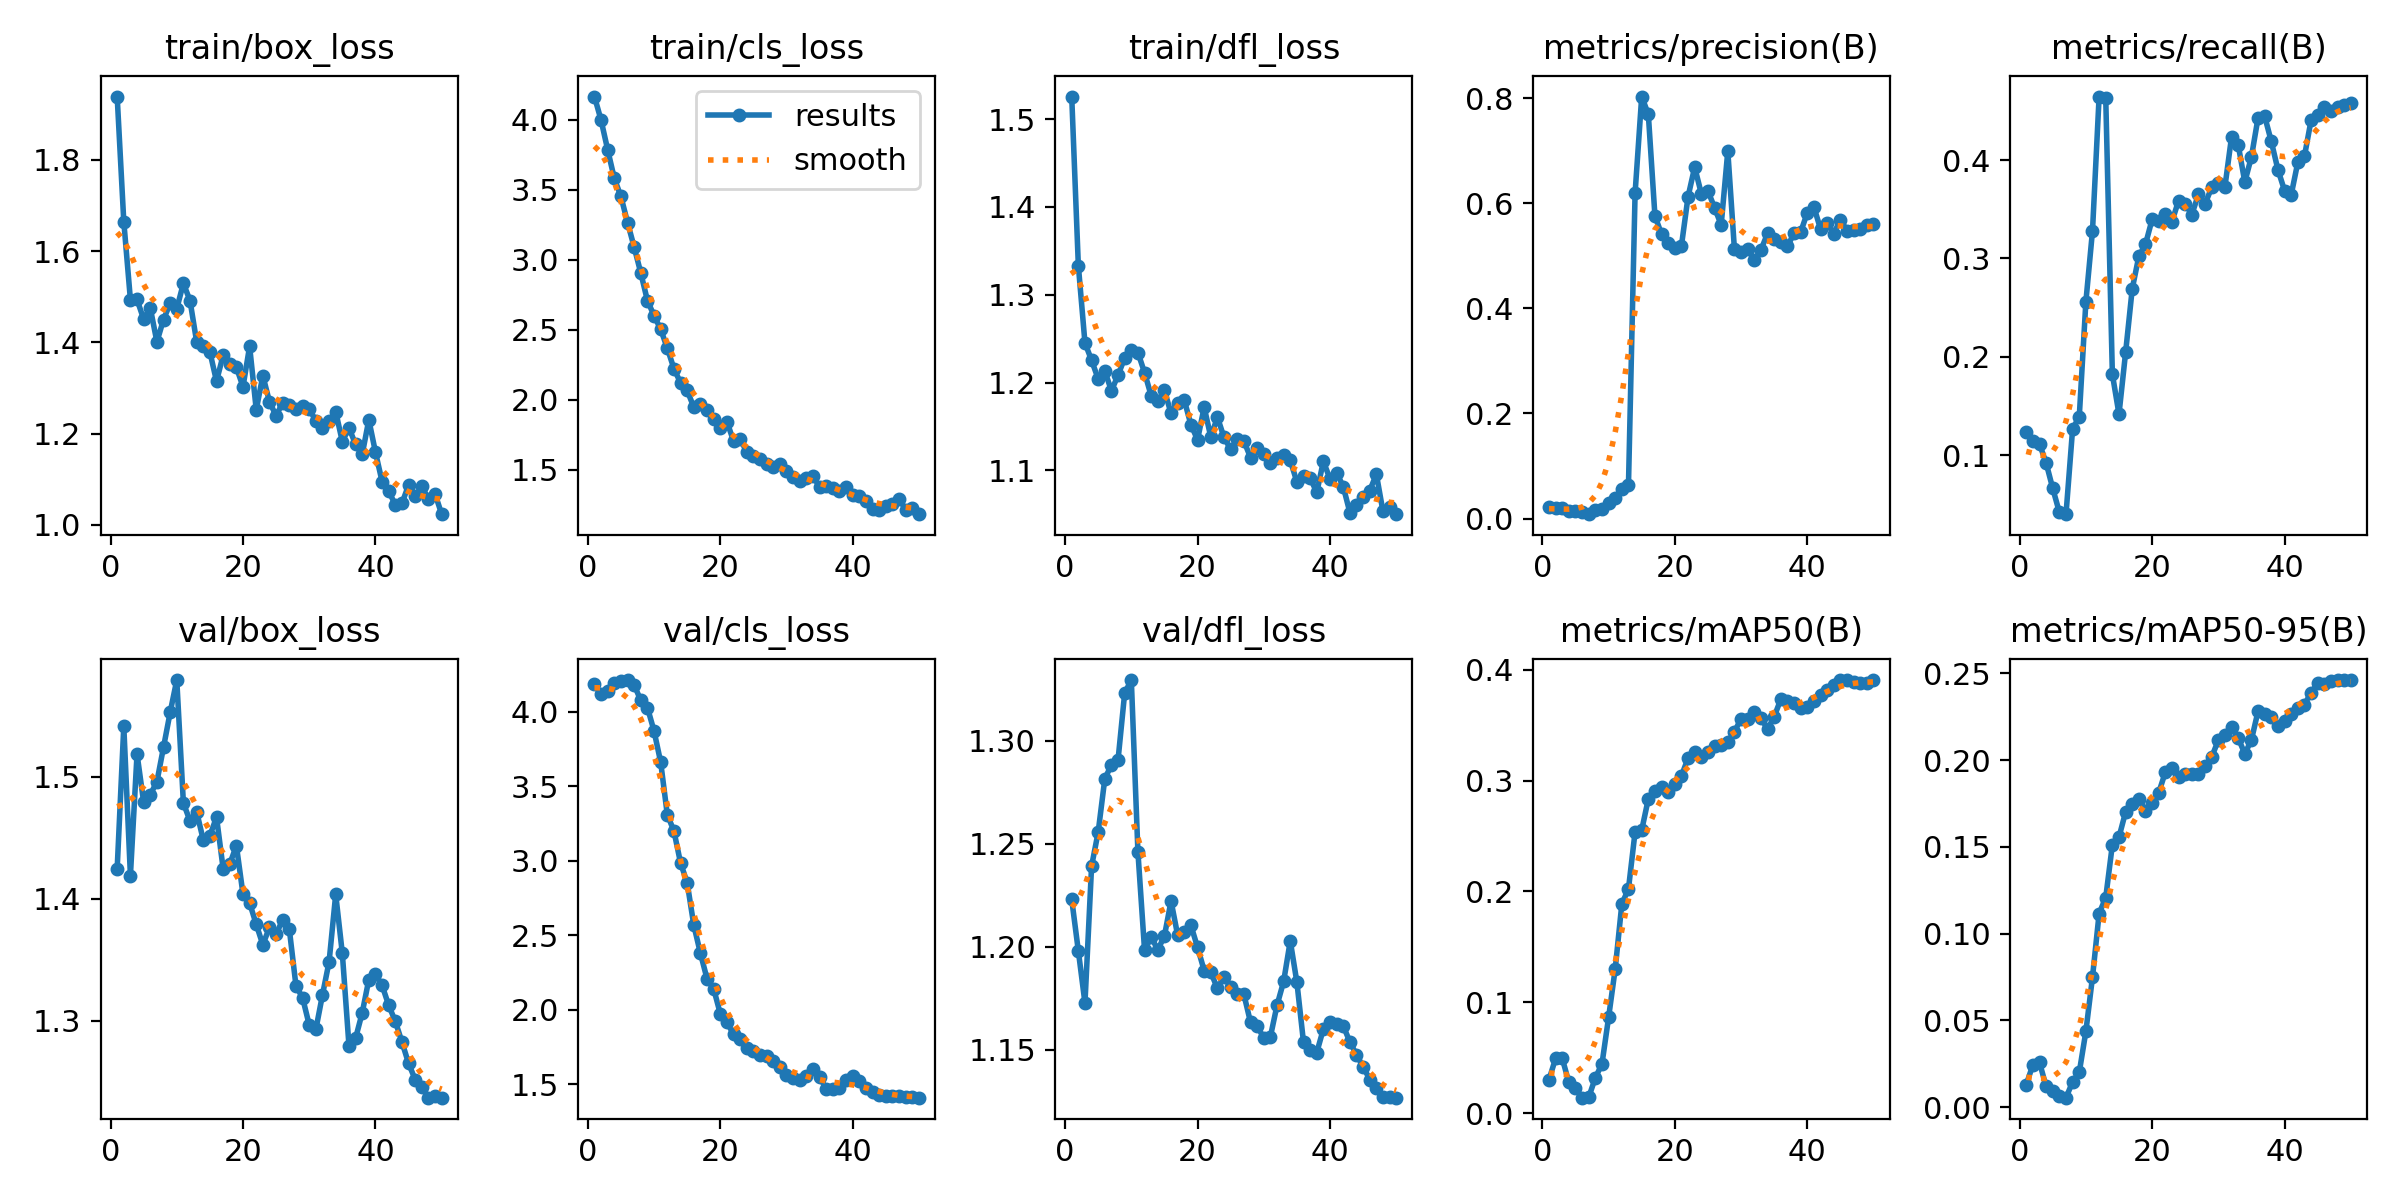
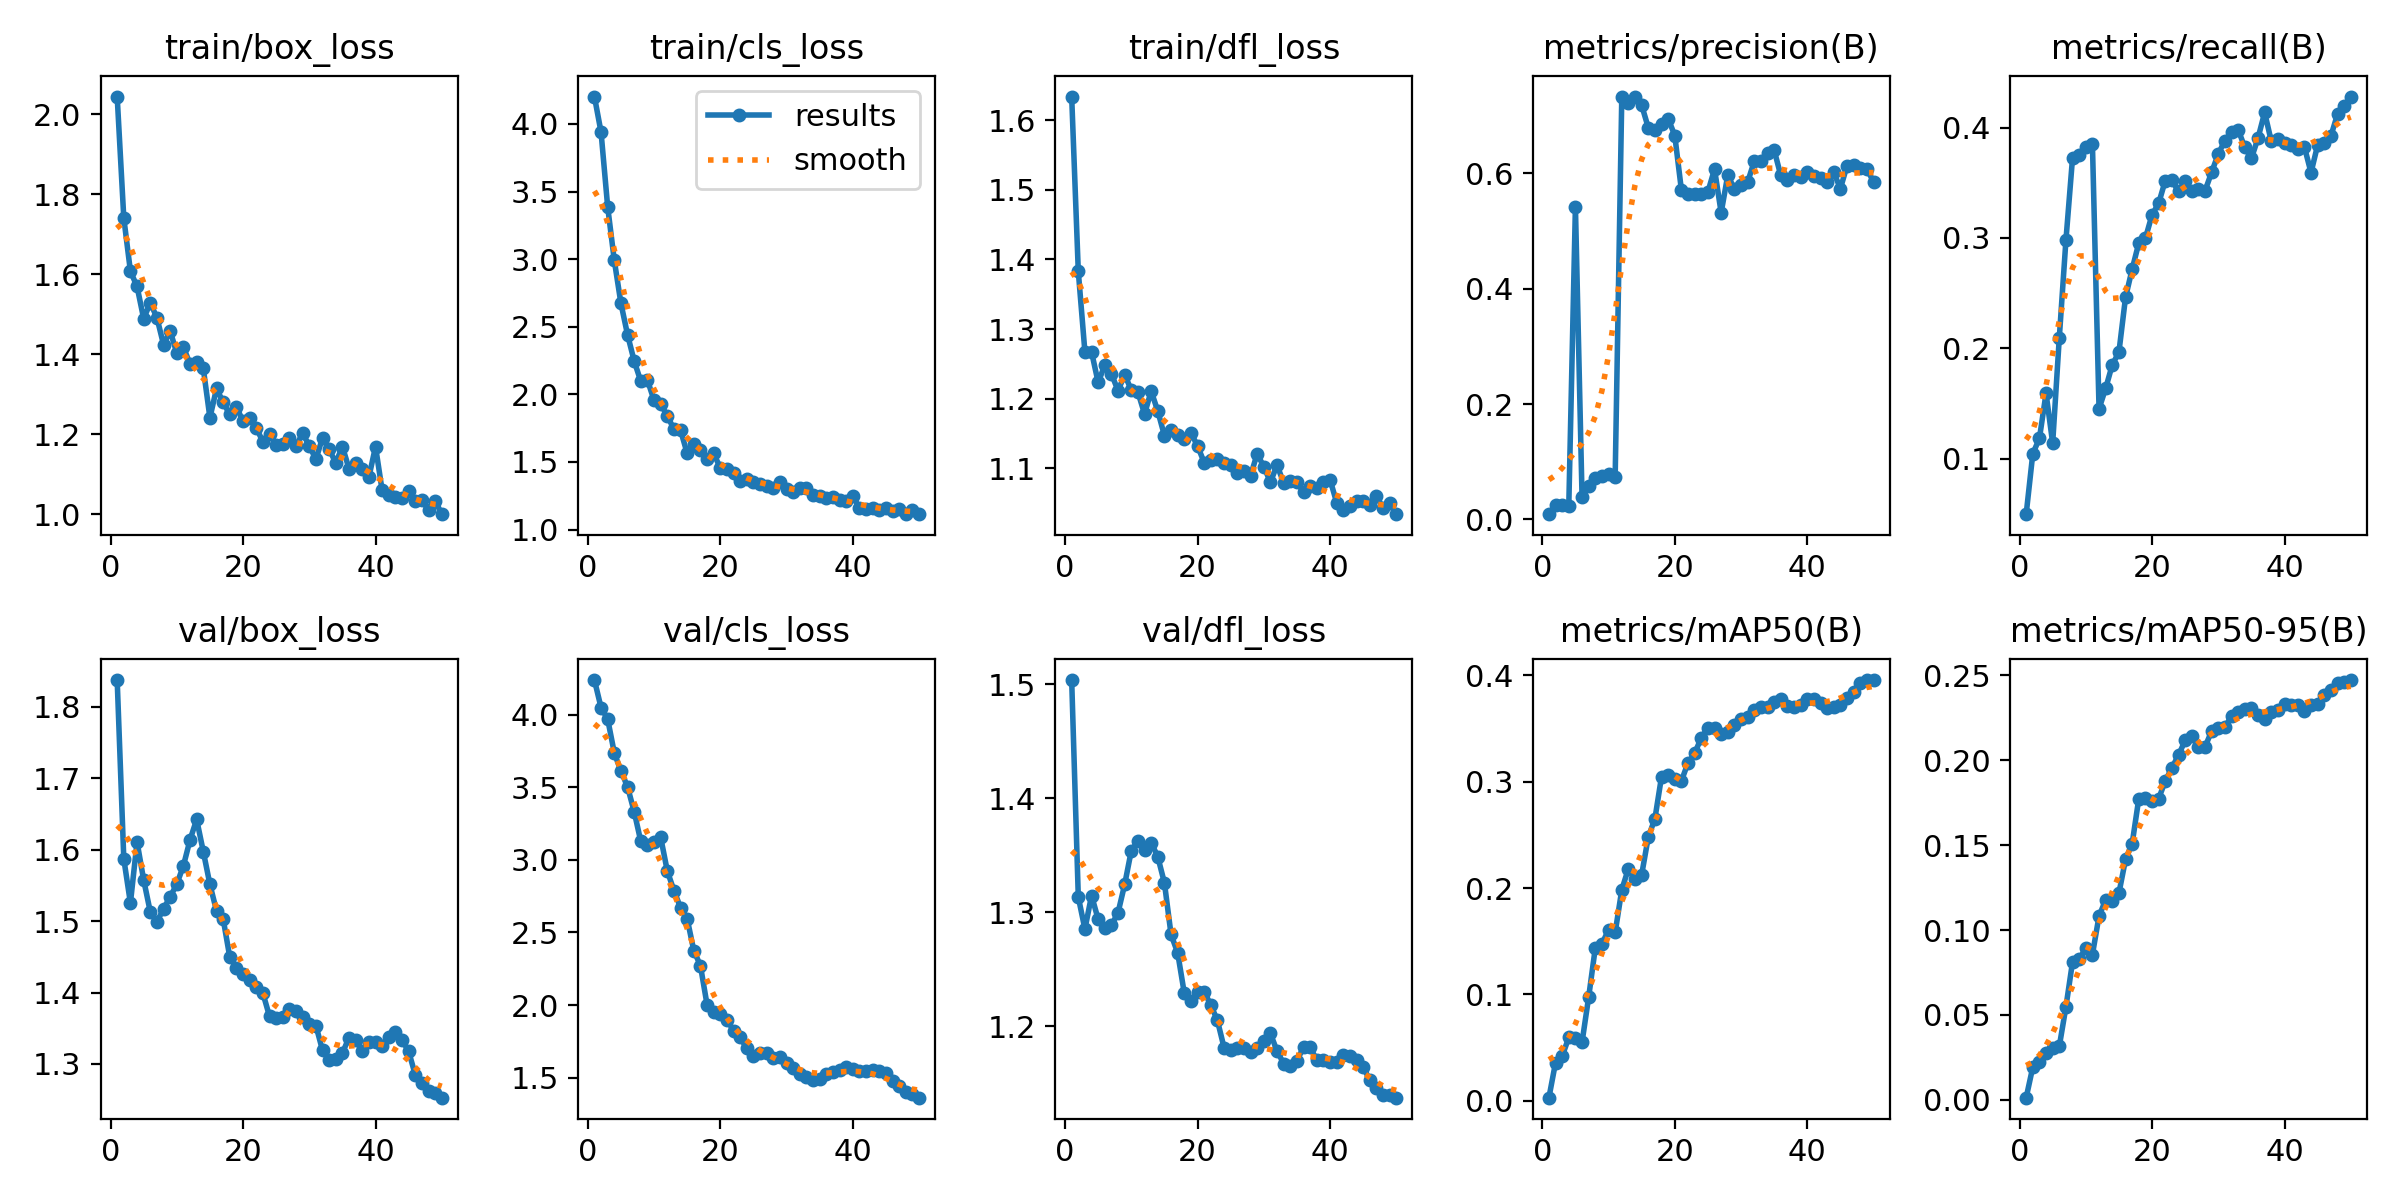
Add files via upload

diff --git a/results/metrics.md b/results/metrics.md
@@ -1,13 +1,9 @@
-Validation split: 23 images, 1044 instances. Source: your Colab run (YOLO11n, 50 epochs, imgsz 640, batch 16).
-
 | Class | Precision | Recall | mAP50 | mAP50-95 |
 |---|---|---|---|---|
-| ALL | 0.563 | 0.458 | 0.391 | 0.247 |
-| Door | 0.510 | 0.779 | 0.711 | 0.443 |
-| Furniture | 0.291 | 0.394 | 0.223 | 0.132 |
-| Room | 0.518 | 0.835 | 0.746 | 0.532 |
-| Stairs | 0.559 | 0.225 | 0.228 | 0.150 |
-| Walls | 1.000 | 0.000 | 0.000 | 0.000 |
-| Window | 0.498 | 0.516 | 0.438 | 0.223 |
-
-Instances in val: {'Door': 249, 'Furniture': 259, 'Room': 272, 'Stairs': 40, 'Walls': 3, 'Window': 221}
+| ALL | 0.587 | 0.428 | 0.396 | 0.247 |
+| Door | 0.652 | 0.697 | 0.723 | 0.449 |
+| Furniture | 0.340 | 0.400 | 0.276 | 0.170 |
+| Room | 0.603 | 0.787 | 0.740 | 0.526 |
+| Stairs | 0.397 | 0.250 | 0.210 | 0.133 |
+| Walls | 1.000 | 0.000 | 0.003 | 0.002 |
+| Window | 0.530 | 0.433 | 0.425 | 0.202 |

diff --git a/results/run_info.md b/results/run_info.md
@@ -1,0 +1,22 @@
+# Reproducibility proof (auto-generated)
+
+- Last successful run: 2026-10-16 22:31 UTC
+- Hardware: Tesla T4
+- Python: 3.13.15
+- ultralytics: 8.4.163
+- torch: 2.11.0+cu130
+- Dataset: cesare-della-corte/architectural_items_detection_v1 v2
+- Model: yolov8n.pt
+- Epochs/Batch/Imgsz: 50/16/640
+- Mode: full training
+- Total runtime (min): 2.4
+
+```
+numpy==2.1.3
+opencv-python==5.0.0.93
+pandas==2.2.3
+roboflow==1.7.1
+torch==2.11.0+cu130
+torchvision==0.26.0+cu130
+ultralytics==8.4.163
+```
